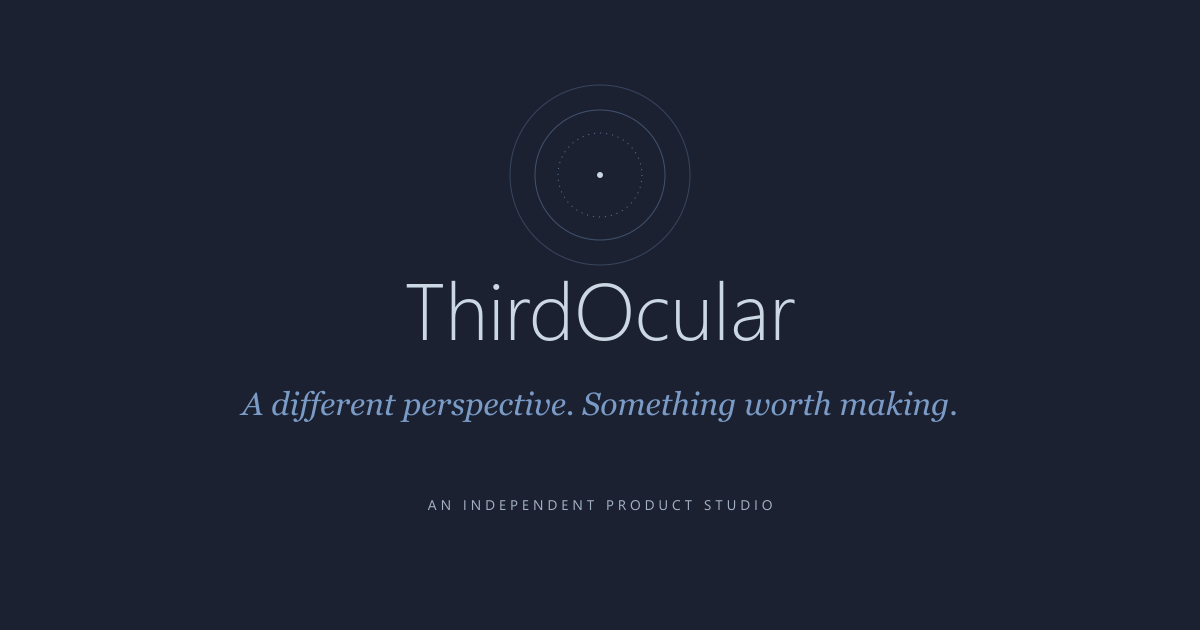
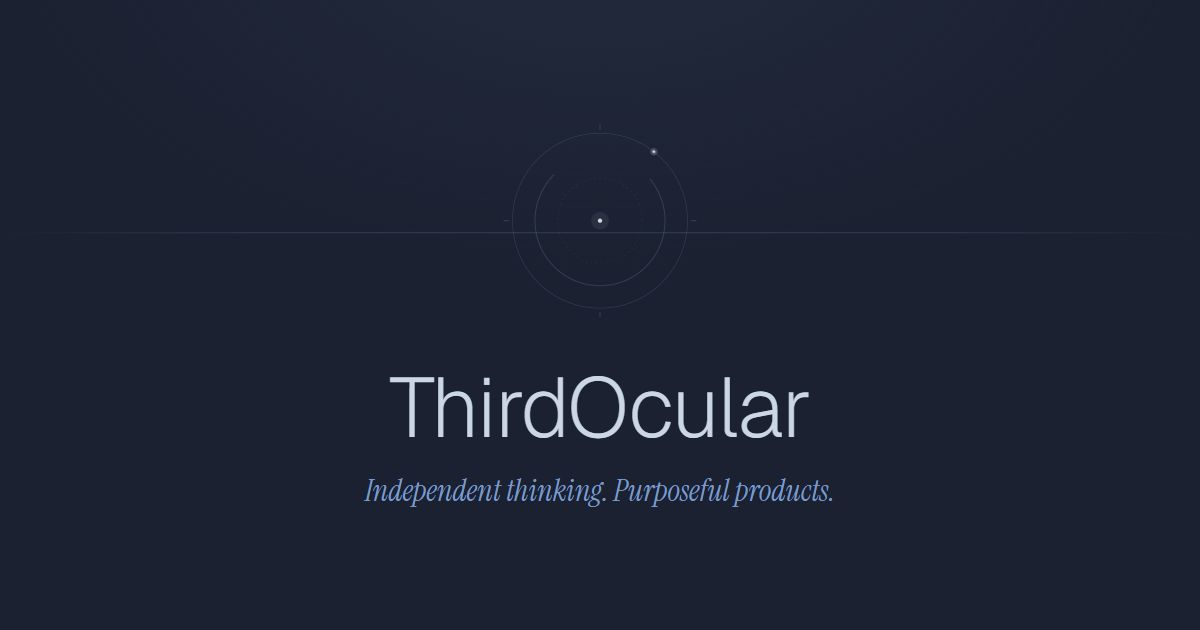
Refine studio headline and share Pocket Giggles founder story

Changed region(s): [[0.185, 0.573, 0.8017, 0.6937], [0.3392, 0.4524, 0.6783, 0.5429], [0.3083, 0.754, 0.7092, 0.8143]]

diff --git a/index.html b/index.html
@@ -21,7 +21,7 @@
     <meta property="og:title" content="ThirdOcular — An independent product studio" />
     <meta
       property="og:description"
-      content="A different perspective. Something worth making. Software, stories, and useful experiences from ThirdOcular."
+      content="Independent thinking. Purposeful products. Software, stories, and original experiences from ThirdOcular."
     />
     <meta property="og:url" content="https://thirdocular.com/" />
     <meta property="og:locale" content="en_US" />
@@ -35,7 +35,7 @@
     <meta name="twitter:title" content="ThirdOcular — An independent product studio" />
     <meta
       name="twitter:description"
-      content="A different perspective. Something worth making. Software, stories, and useful experiences from ThirdOcular."
+      content="Independent thinking. Purposeful products. Software, stories, and original experiences from ThirdOcular."
     />
     <meta name="twitter:image" content="https://thirdocular.com/og.png" />
     <meta name="twitter:image:alt" content="ThirdOcular — An independent product studio" />
@@ -206,7 +206,7 @@
         </div>
 
         <h1 class="wordmark">ThirdOcular</h1>
-        <p class="tagline">A different perspective.<br>Something worth making.</p><p class="studio-kicker">An independent product studio</p>
+        <p class="tagline">Independent thinking.<br>Purposeful products.</p><p class="studio-kicker">An independent product studio</p>
 
         <div class="scroll-cue" aria-hidden="true"></div>
       </section>
@@ -268,9 +268,9 @@
             <a class="signal" href="https://pocketgiggles.thirdocular.com/">
               <span class="signal-no">002</span><span class="signal-main">
                 <span class="signal-name">Pocket Giggles<span class="signal-live">Free film live</span></span>
-                <span class="prop-kind">Little stories. Bigger imaginations.</span>
-                <span class="prop-desc">Little animated films for ages 3–5 and the grown-ups beside them. Meet Fizzle, the ice-cream dragon, in a free short with moving characters, music and a very unexpected puff. The seven-story collection also brings together read-aloud books and printable editions.</span>
-                <span class="prop-capability">Watch the free film · Read the full sample together · More adventures in development</span>
+                <span class="prop-kind">A father's mission. A little more laughter.</span>
+                <span class="prop-desc">Pocket Giggles started at home. As the father of a three-year-old and a five-year-old, Sandeep has made finding their next laugh a personal mission. That pursuit became a collection of original stories and animated adventures, made to help families share the silliness, surprise, and imagination of childhood.</span>
+                <span class="prop-capability">For ages 3–5 and the grown-ups beside them · Watch the free film · Read together</span>
               </span><span class="signal-cta">Open Pocket Giggles&ensp;<span class="arrow" aria-hidden="true">↗</span></span>
             </a>
 

diff --git a/scripts/og.html b/scripts/og.html
@@ -96,6 +96,6 @@
       </g>
     </svg>
     <h1>ThirdOcular</h1>
-    <p>A different perspective. Something worth making.</p>
+    <p>Independent thinking. Purposeful products.</p>
   </body>
 </html>
